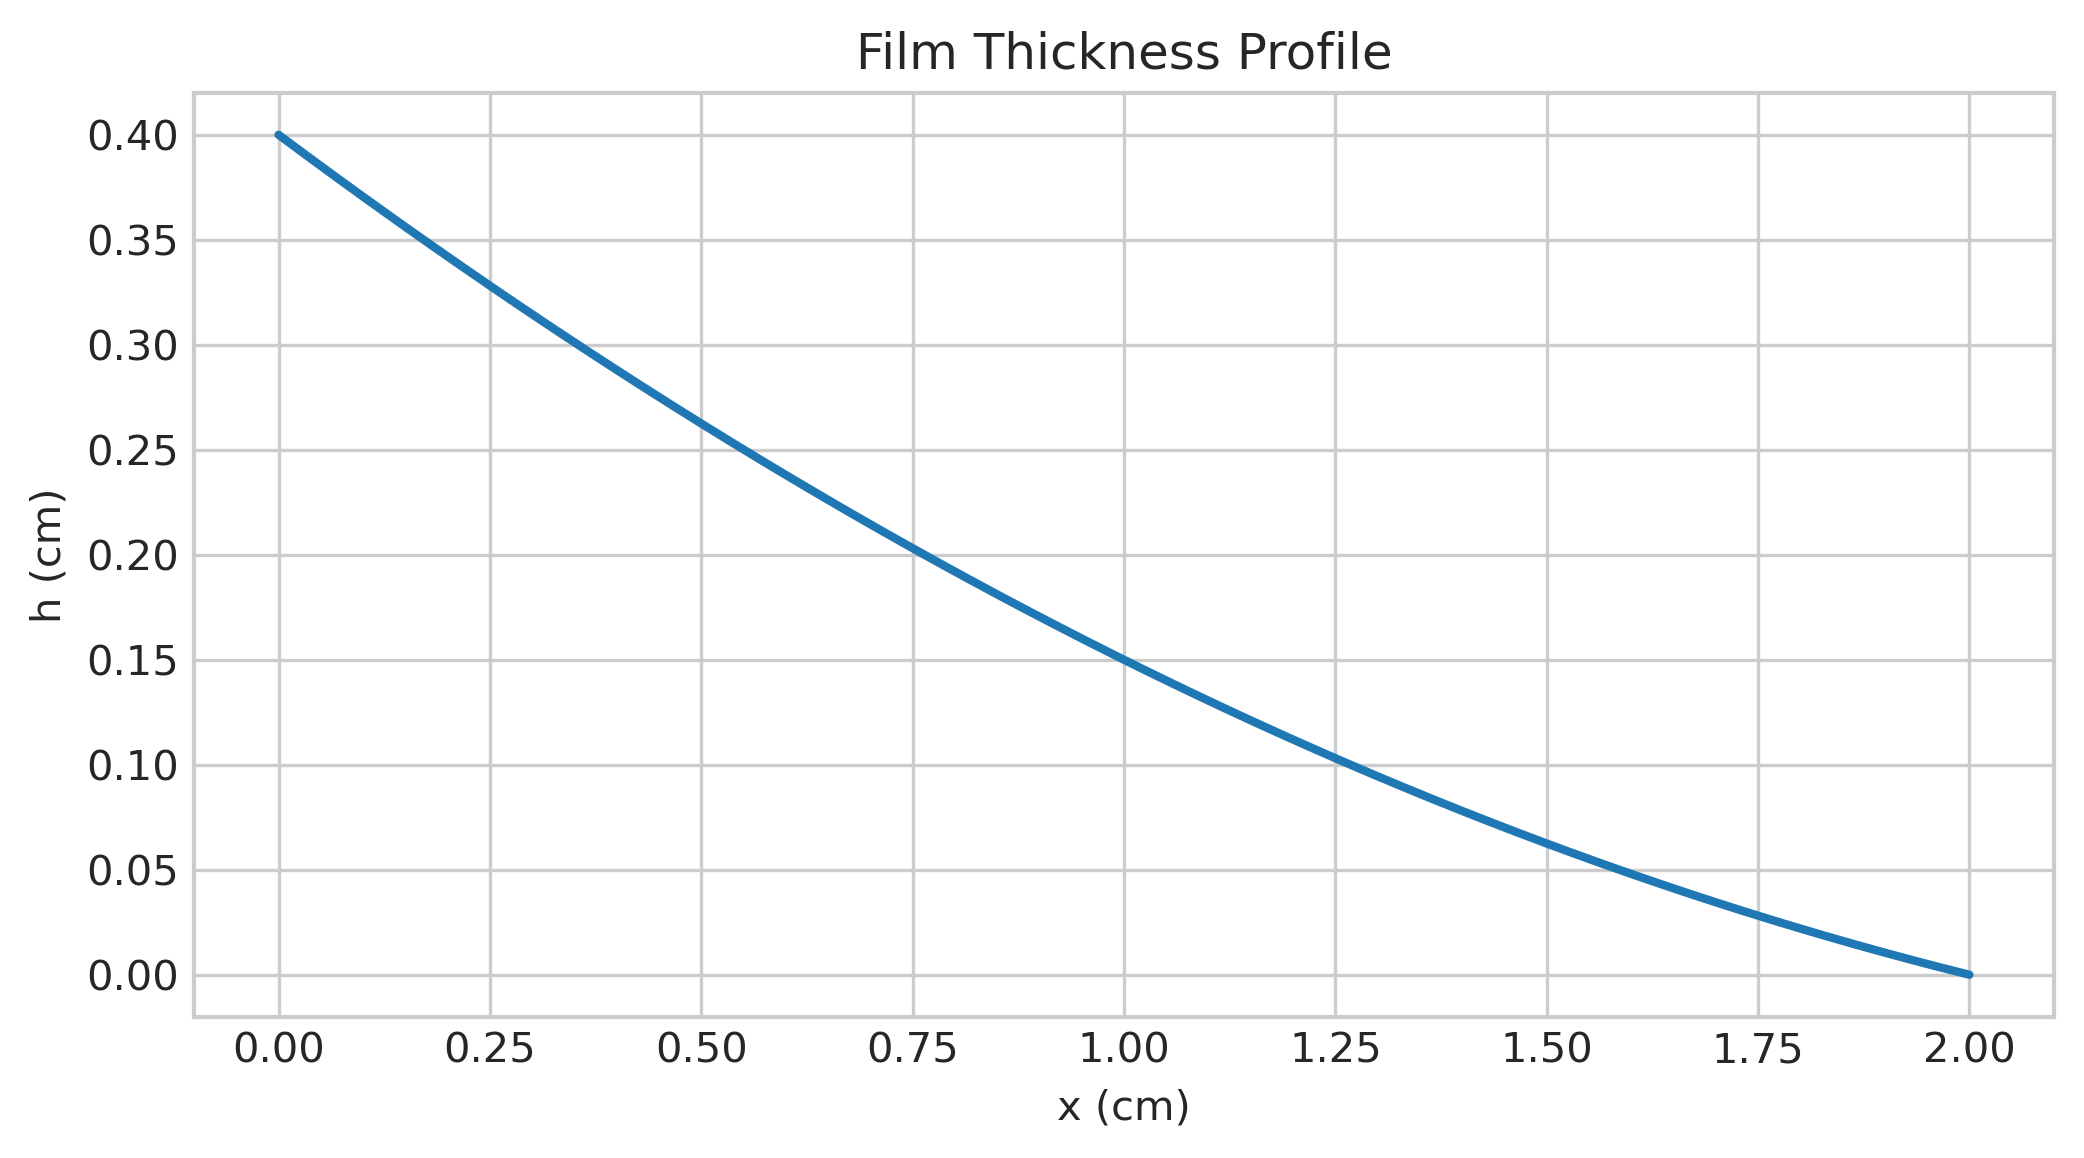
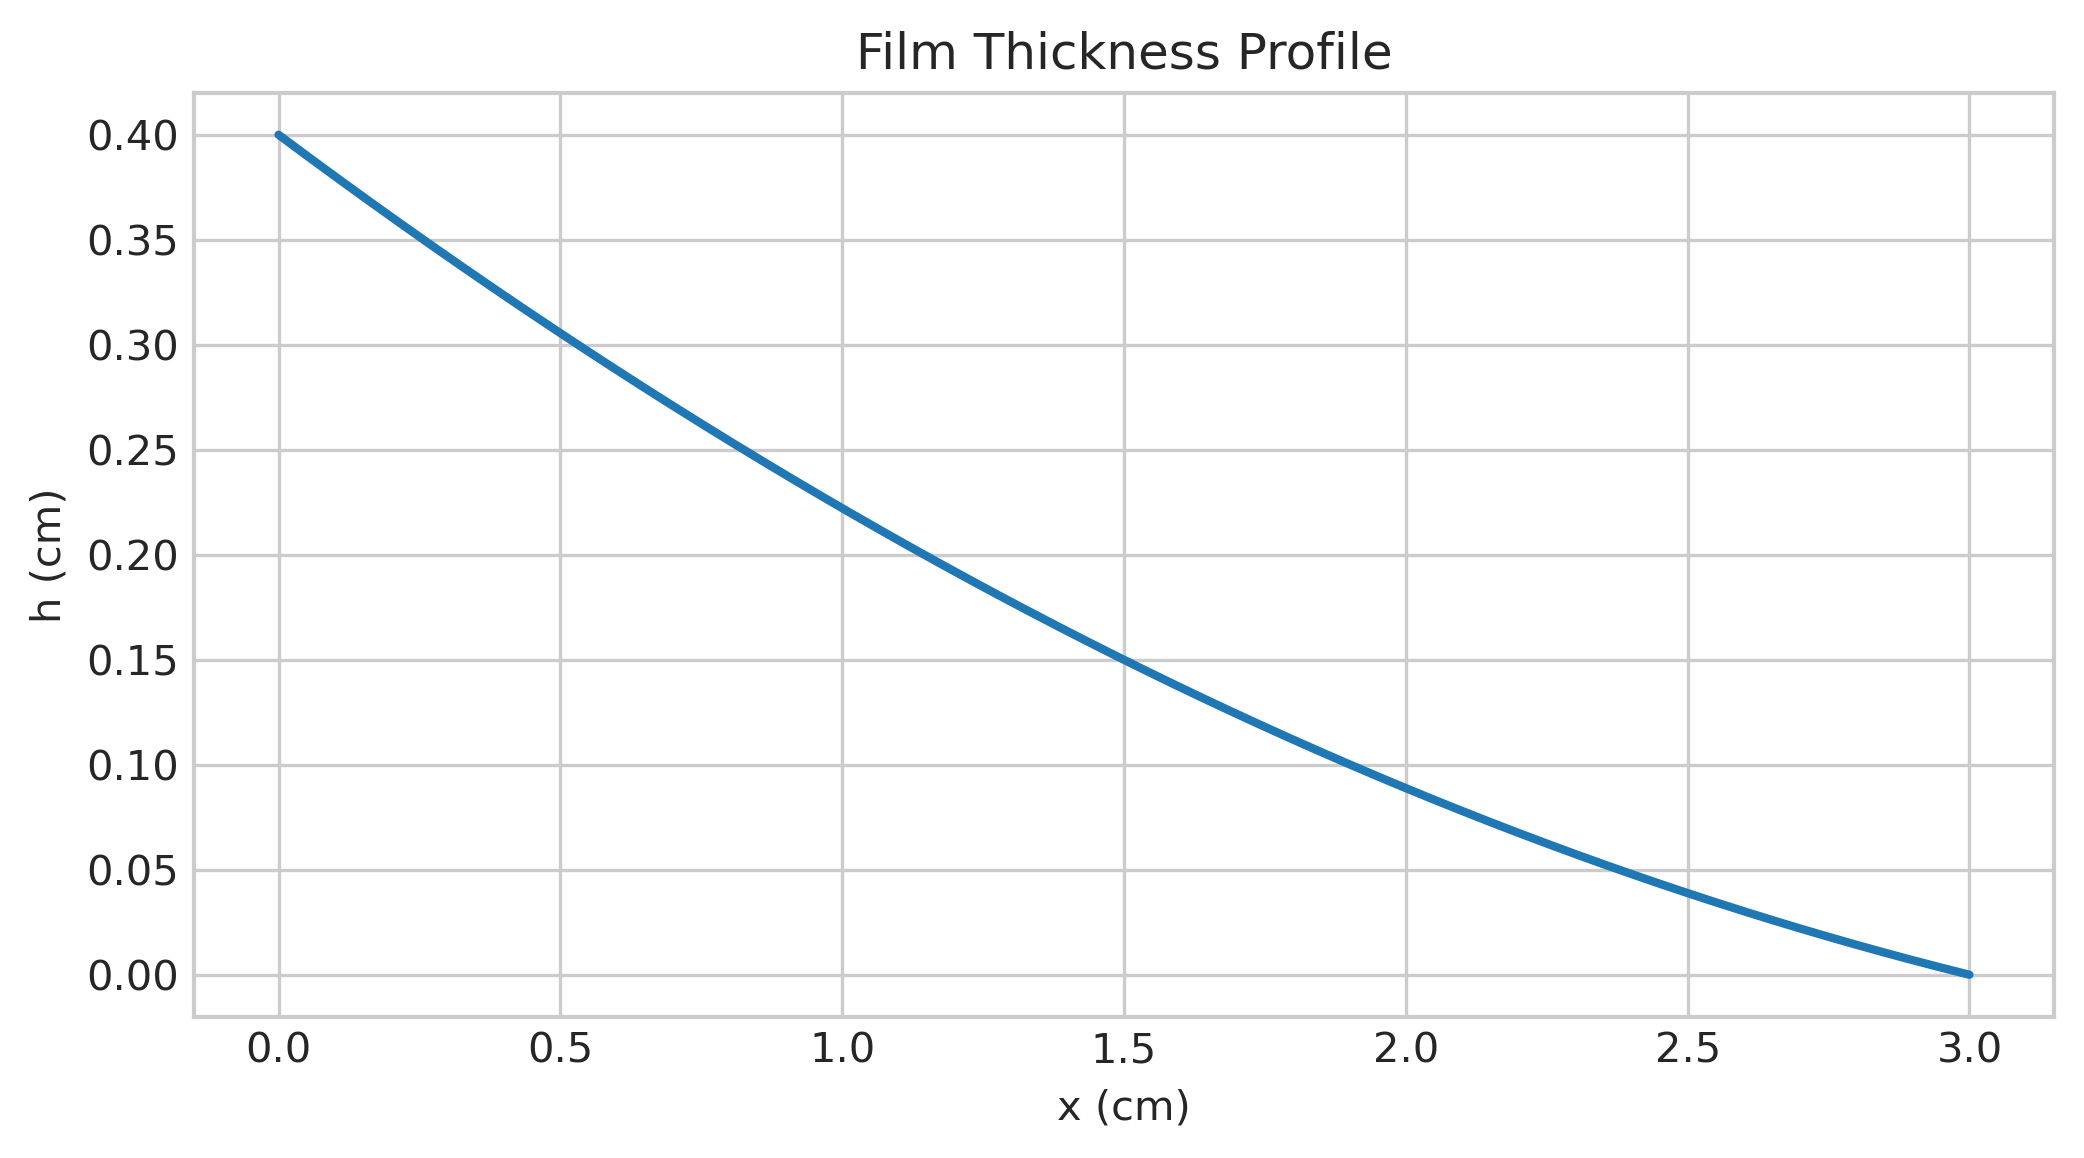
made to send

diff --git a/wedge/thin_film_solver.py b/wedge/thin_film_solver.py
@@ -11,7 +11,7 @@ class FilmParams:
     h0: float = 0.4              # initial film thickness, cm
     v_web: float = 0.01          # web velocity, cm/s
     beta: float = field(default_factory=lambda: np.radians(45))  # radians
-    L: float = 2.0               # domain length, cm
+    L: float = 3.0               # domain length, cm
     v_evap: float = field(init=False)
 
     def __post_init__(self):
@@ -132,6 +132,40 @@ def plot_streamplot(x_fine, u_x_bar_1d, params):
 
     fig, ax = plt.subplots(figsize=(6, 8))
     pcm = ax.pcolormesh(X, Y, speed, cmap='viridis', shading='auto')
+
+    # --- constant web-velocity field [v_web*sin(beta), -v_web*cos(beta)] ---
+    d_x = p.v_web * np.sin(p.beta)
+    d_y = -p.v_web * np.cos(p.beta)
+    mag = np.hypot(d_x, d_y)
+    ux_w, uy_w = d_x / mag, d_y / mag   # unit direction
+    perp_x, perp_y = -uy_w, ux_w        # perpendicular (for line spacing)
+
+    x_min, x_max = 0, p.L
+    y_min, y_max = -2 * p.L, 2 * p.L
+    diag = np.hypot(x_max - x_min, y_max - y_min)
+    cx, cy = (x_min + x_max) / 2, (y_min + y_max) / 2
+    t_line = np.linspace(-2 * diag, 2 * diag, 2000)
+    arrow_len = 0.12 * p.L
+
+    for offset in np.linspace(-diag, diag, 15):
+        x0 = cx + offset * perp_x
+        y0 = cy + offset * perp_y
+        xs = x0 + t_line * ux_w
+        ys = y0 + t_line * uy_w
+        in_box = (xs >= x_min) & (xs <= x_max) & (ys >= y_min) & (ys <= y_max)
+        if not in_box.any():
+            continue
+        xs_c, ys_c = xs[in_box], ys[in_box]
+        ax.plot(xs_c, ys_c, color='white', linestyle='--', linewidth=1.0,
+                alpha=0.7, zorder=1)
+        mid = len(xs_c) // 2
+        ax.annotate('',
+                    xy=(xs_c[mid] + ux_w * arrow_len,
+                        ys_c[mid] + uy_w * arrow_len),
+                    xytext=(xs_c[mid], ys_c[mid]),
+                    arrowprops=dict(arrowstyle='->', color='white', lw=1.2),
+                    zorder=1)
+
     ax.streamplot(x_grid, y_grid, U_x, U_y, color='white', linewidth=0.8,
                   arrowsize=1.0, density=1.5)
     fig.colorbar(pcm, ax=ax, label="Speed (cm/s)")
